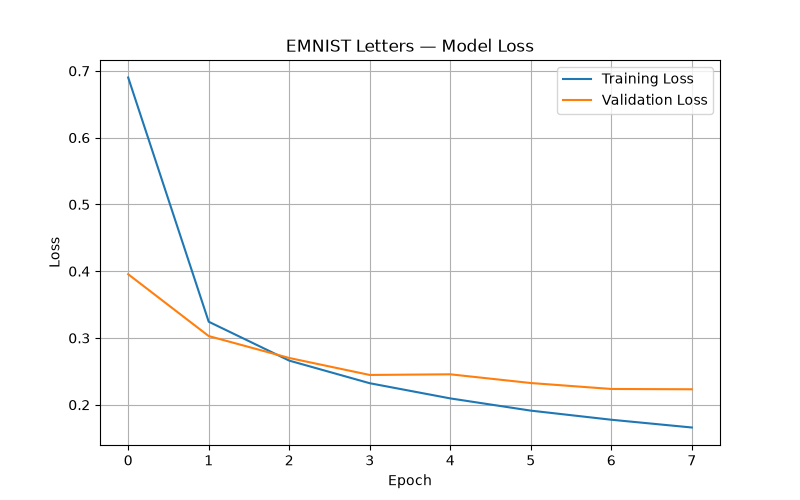
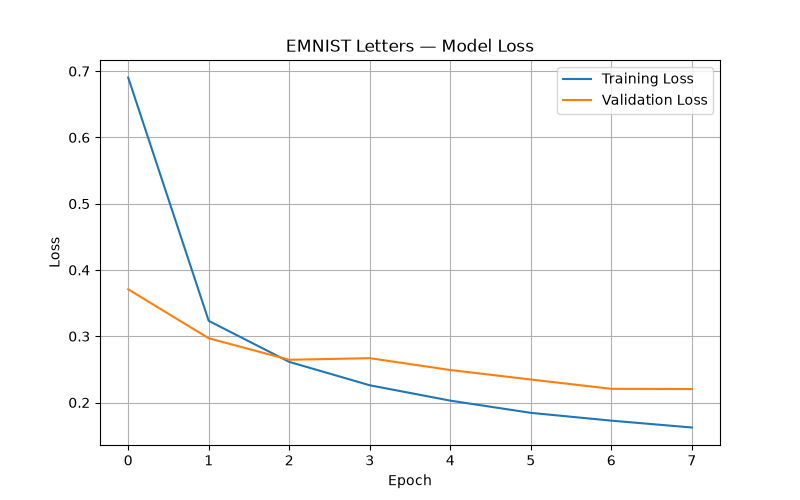
Handwritten character recognition: CNN on MNIST + EMNIST, Flask web app

diff --git a/train_emnist_model.py b/train_emnist_model.py
@@ -30,11 +30,15 @@ print("Test examples:", ds_info.splits["test"].num_examples)
 
 def preprocess(image, label):
     image = tf.cast(image, tf.float32) / 255.0
+
     # EMNIST source images are stored rotated/mirrored relative to the
-    # "natural" reading orientation; this fixes that.
+    # natural reading orientation; this fixes that.
     image = tf.image.rot90(image, k=3)
     image = tf.image.flip_left_right(image)
-    label = label - 1  # original labels are 1-26 -> remap to 0-25
+
+    # Original labels are 1-26 -> remap to 0-25
+    label = label - 1
+
     return image, label
 
 